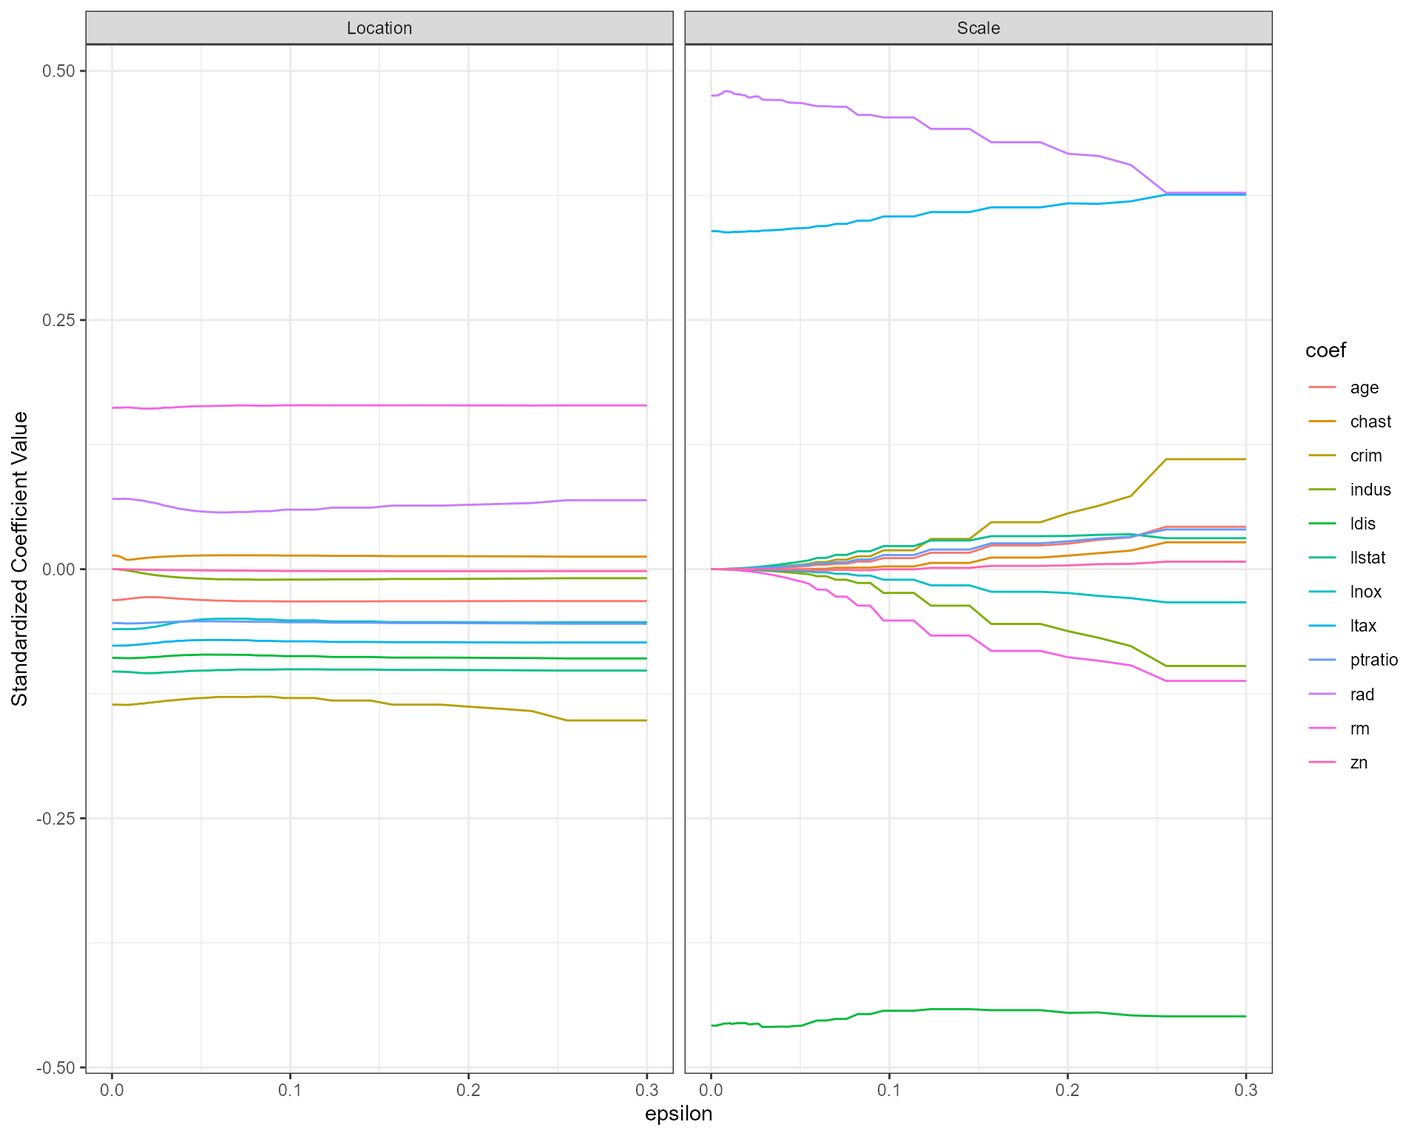
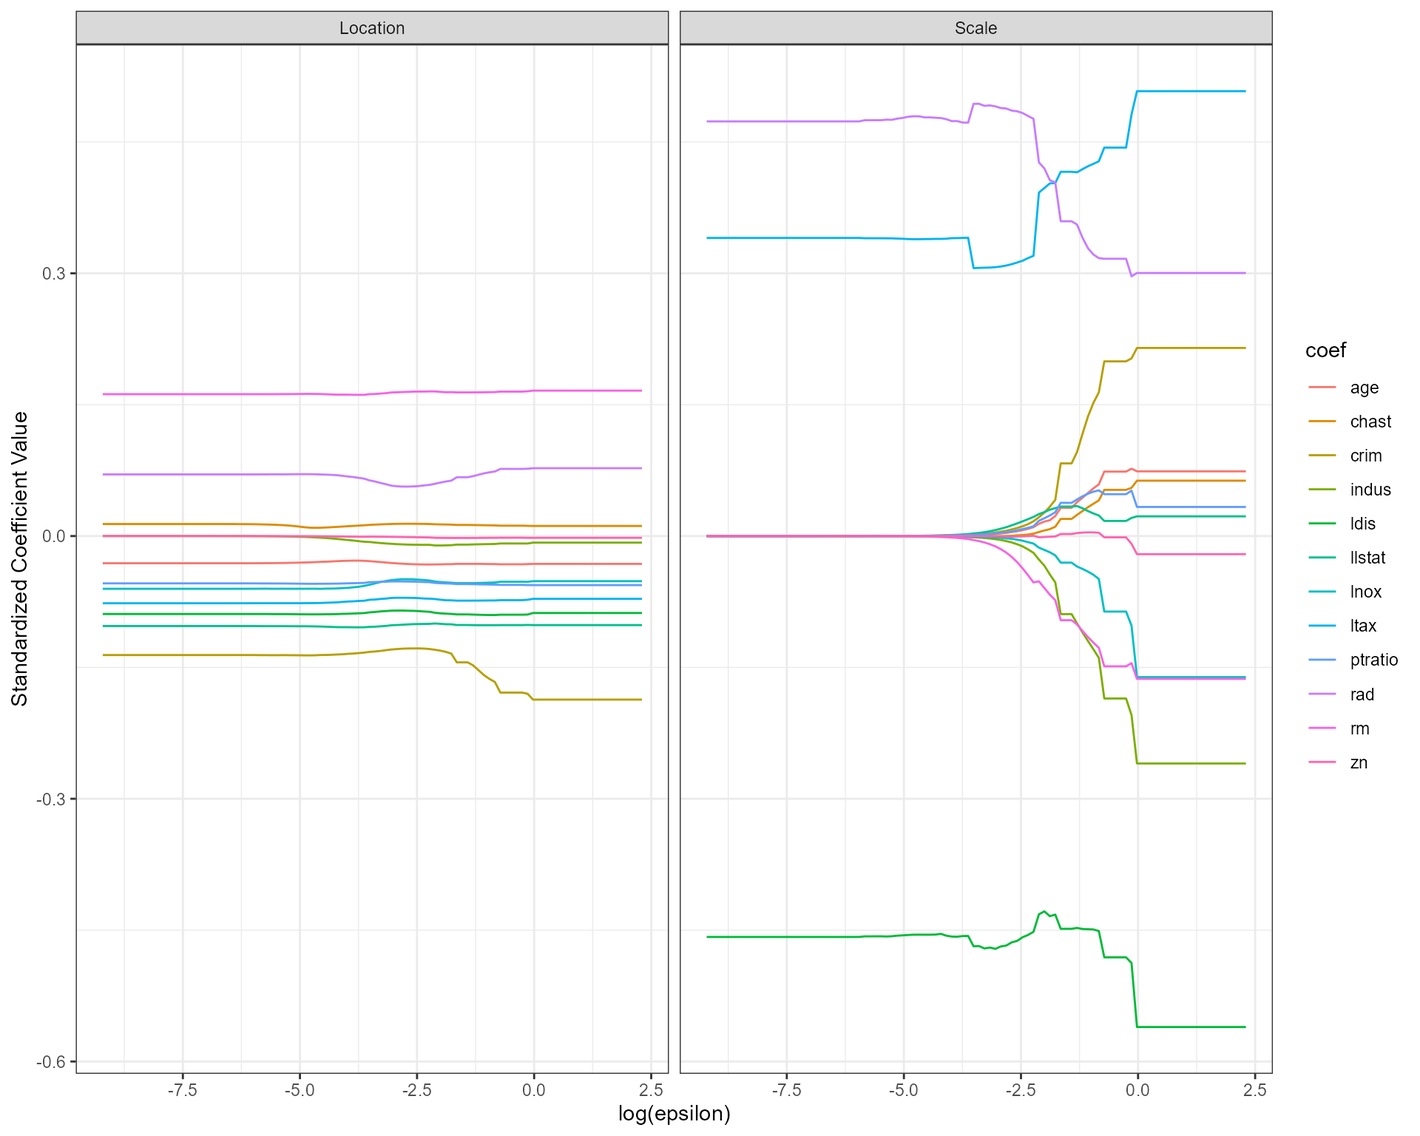
documentation and site

diff --git a/docs/index.html b/docs/index.html
@@ -5,9 +5,16 @@
 <meta charset="utf-8">
 <meta http-equiv="X-UA-Compatible" content="IE=edge">
 <meta name="viewport" content="width=device-width, initial-scale=1, shrink-to-fit=no">
-<meta name="description" content="Implementation of the SIC epsilon-telescope method, either
-    using single or multi-parameter regression. This package contains the data
-    analyses from O'Neill and Burke (2021). &quot;Variable Selection Using a Smooth Information Criterion for Multi-Parameter Regression Models&quot;. &lt;arXiv:2110.02643&gt;.">
+<meta name="description" content='Implementation of the SIC epsilon-telescope method, either
+    using single or multi-parameter regression. IncludesIncludes classical regression
+    with normally distributed errors and robust regression, where the errors are from
+    the Laplace distribution. The "smooth generalized normal distribution" is used,
+    where the estimation of an additional shape parameter allows the user to move
+    smoothly between both types of regression. See ONeill and Burke (2022)
+    "Robust Distributional Regression with Automatic Variable Selection" for more details.
+    &lt;arXiv:2212.07317&gt;. This package also contains the data analyses from ONeill and
+    Burke (2021). "Variable Selection Using a Smooth Information Criterion for
+    Multi-Parameter Regression Models". &lt;arXiv:2110.02643&gt;.'>
 <title>Variable Selection Using a Smooth Information Criterion • smoothic</title>
 <!-- favicons --><link rel="icon" type="image/png" sizes="16x16" href="favicon-16x16.png">
 <link rel="icon" type="image/png" sizes="32x32" href="favicon-32x32.png">
@@ -20,9 +27,16 @@
 <script src="deps/bootstrap-5.1.3/bootstrap.bundle.min.js"></script><!-- Font Awesome icons --><link rel="stylesheet" href="https://cdnjs.cloudflare.com/ajax/libs/font-awesome/5.12.1/css/all.min.css" integrity="sha256-mmgLkCYLUQbXn0B1SRqzHar6dCnv9oZFPEC1g1cwlkk=" crossorigin="anonymous">
 <link rel="stylesheet" href="https://cdnjs.cloudflare.com/ajax/libs/font-awesome/5.12.1/css/v4-shims.min.css" integrity="sha256-wZjR52fzng1pJHwx4aV2AO3yyTOXrcDW7jBpJtTwVxw=" crossorigin="anonymous">
 <!-- bootstrap-toc --><script src="https://cdn.rawgit.com/afeld/bootstrap-toc/v1.0.1/dist/bootstrap-toc.min.js"></script><!-- headroom.js --><script src="https://cdnjs.cloudflare.com/ajax/libs/headroom/0.11.0/headroom.min.js" integrity="sha256-AsUX4SJE1+yuDu5+mAVzJbuYNPHj/WroHuZ8Ir/CkE0=" crossorigin="anonymous"></script><script src="https://cdnjs.cloudflare.com/ajax/libs/headroom/0.11.0/jQuery.headroom.min.js" integrity="sha256-ZX/yNShbjqsohH1k95liqY9Gd8uOiE1S4vZc+9KQ1K4=" crossorigin="anonymous"></script><!-- clipboard.js --><script src="https://cdnjs.cloudflare.com/ajax/libs/clipboard.js/2.0.6/clipboard.min.js" integrity="sha256-inc5kl9MA1hkeYUt+EC3BhlIgyp/2jDIyBLS6k3UxPI=" crossorigin="anonymous"></script><!-- search --><script src="https://cdnjs.cloudflare.com/ajax/libs/fuse.js/6.4.6/fuse.js" integrity="sha512-zv6Ywkjyktsohkbp9bb45V6tEMoWhzFzXis+LrMehmJZZSys19Yxf1dopHx7WzIKxr5tK2dVcYmaCk2uqdjF4A==" crossorigin="anonymous"></script><script src="https://cdnjs.cloudflare.com/ajax/libs/autocomplete.js/0.38.0/autocomplete.jquery.min.js" integrity="sha512-GU9ayf+66Xx2TmpxqJpliWbT5PiGYxpaG8rfnBEk1LL8l1KGkRShhngwdXK1UgqhAzWpZHSiYPc09/NwDQIGyg==" crossorigin="anonymous"></script><script src="https://cdnjs.cloudflare.com/ajax/libs/mark.js/8.11.1/mark.min.js" integrity="sha512-5CYOlHXGh6QpOFA/TeTylKLWfB3ftPsde7AnmhuitiTX4K5SqCLBeKro6sPS8ilsz1Q4NRx3v8Ko2IBiszzdww==" crossorigin="anonymous"></script><!-- pkgdown --><script src="pkgdown.js"></script><meta property="og:title" content="Variable Selection Using a Smooth Information Criterion">
-<meta property="og:description" content="Implementation of the SIC epsilon-telescope method, either
-    using single or multi-parameter regression. This package contains the data
-    analyses from O'Neill and Burke (2021). &quot;Variable Selection Using a Smooth Information Criterion for Multi-Parameter Regression Models&quot;. &lt;arXiv:2110.02643&gt;.">
+<meta property="og:description" content='Implementation of the SIC epsilon-telescope method, either
+    using single or multi-parameter regression. IncludesIncludes classical regression
+    with normally distributed errors and robust regression, where the errors are from
+    the Laplace distribution. The "smooth generalized normal distribution" is used,
+    where the estimation of an additional shape parameter allows the user to move
+    smoothly between both types of regression. See ONeill and Burke (2022)
+    "Robust Distributional Regression with Automatic Variable Selection" for more details.
+    &lt;arXiv:2212.07317&gt;. This package also contains the data analyses from ONeill and
+    Burke (2021). "Variable Selection Using a Smooth Information Criterion for
+    Multi-Parameter Regression Models". &lt;arXiv:2110.02643&gt;.'>
 <meta property="og:image" content="https://meadhbh-oneill.github.io/smoothic/logo.png">
 <!-- mathjax --><script src="https://cdnjs.cloudflare.com/ajax/libs/mathjax/2.7.5/MathJax.js" integrity="sha256-nvJJv9wWKEm88qvoQl9ekL2J+k/RWIsaSScxxlsrv8k=" crossorigin="anonymous"></script><script src="https://cdnjs.cloudflare.com/ajax/libs/mathjax/2.7.5/config/TeX-AMS-MML_HTMLorMML.js" integrity="sha256-84DKXVJXs0/F8OTMzX4UR909+jtl4G7SPypPavF+GfA=" crossorigin="anonymous"></script><!--[if lt IE 9]>
 <script src="https://oss.maxcdn.com/html5shiv/3.7.3/html5shiv.min.js"></script>
@@ -85,7 +99,7 @@
 <!-- badges: start -->
 
 <p>For more information, check out the <code>smoothic</code> <a href="https://meadhbh-oneill.github.io/smoothic/">website</a>.</p>
-<p>Implementation of the SIC epsilon-telescope method, either using single or multi-parameter regression. This package contains the data analyses from O’Neill and Burke (2021). “Variable Selection Using a Smooth Information Criterion for Multi-Parameter Regression Models”. The preprint of the paper is available on <a href="https://arxiv.org/abs/2110.02643" class="external-link">arXiv</a>. Includes classical regression with normally distributed errors and robust regression, where the errors are from the Laplace distribution. The “smooth generalized normal distribution” is used, where the estimation of an additional shape parameter allows the user to move smoothly between both types of regression. See O’Neill and Burke (2022) “Robust Distributional Regression with Automatic Variable Selection” for more details on <a href="insert%20link%20here">arXiv</a>.</p>
+<p>Implementation of the SIC epsilon-telescope method, either using single or multi-parameter regression. This package contains the data analyses from O’Neill and Burke (2021). “Variable Selection Using a Smooth Information Criterion for Multi-Parameter Regression Models”. The preprint of the paper is available on <a href="https://arxiv.org/abs/2110.02643" class="external-link">arXiv</a>. Includes classical regression with normally distributed errors and robust regression, where the errors are from the Laplace distribution. The “smooth generalized normal distribution” is used, where the estimation of an additional shape parameter allows the user to move smoothly between both types of regression. See O’Neill and Burke (2022) “Robust Distributional Regression with Automatic Variable Selection” for more details on <a href="https://arxiv.org/abs/2212.07317" class="external-link">arXiv</a>.</p>
 <div class="section level2">
 <h2 id="installation">Installation<a class="anchor" aria-label="anchor" href="#installation"></a>
 </h2>

diff --git a/docs/articles/sgnd-boston.html b/docs/articles/sgnd-boston.html
@@ -133,40 +133,40 @@ criterion.</p>
 <span><span class="co">#&gt; </span></span>
 <span><span class="co">#&gt; Coefficients:</span></span>
 <span><span class="co">#&gt;                      Estimate         SEE        Z    Pvalue    </span></span>
-<span><span class="co">#&gt; intercept_0_beta   3.66846106  0.14300775  25.6522 &lt; 2.2e-16 ***</span></span>
-<span><span class="co">#&gt; crim_1_beta       -0.01580316  0.00238199  -6.6344 7.903e-09 ***</span></span>
+<span><span class="co">#&gt; intercept_0_beta   3.66771163  0.12703038  28.8727 &lt; 2.2e-16 ***</span></span>
+<span><span class="co">#&gt; crim_1_beta       -0.01579788  0.00237149  -6.6616 6.602e-09 ***</span></span>
 <span><span class="co">#&gt; zn_2_beta                   0           0        0         0    </span></span>
 <span><span class="co">#&gt; indus_3_beta                0           0        0         0    </span></span>
-<span><span class="co">#&gt; rm_4_beta          0.23056343  0.02153543  10.7062 &lt; 2.2e-16 ***</span></span>
-<span><span class="co">#&gt; age_5_beta        -0.00110288  0.00050773  -2.1722 0.0195869 *  </span></span>
-<span><span class="co">#&gt; rad_6_beta         0.00809799  0.00211141   3.8353 0.0001971 ***</span></span>
-<span><span class="co">#&gt; ptratio_7_beta    -0.02495948  0.00329515  -7.5746 1.482e-10 ***</span></span>
-<span><span class="co">#&gt; lnox_8_beta       -0.29896928  0.13694515  -2.1831 0.0190779 *  </span></span>
-<span><span class="co">#&gt; ldis_9_beta       -0.16497074  0.02977220  -5.5411 5.667e-07 ***</span></span>
-<span><span class="co">#&gt; ltax_10_beta      -0.19372179  0.01704358 -11.3663 &lt; 2.2e-16 ***</span></span>
-<span><span class="co">#&gt; llstat_11_beta    -0.17098692  0.02250256  -7.5986 1.335e-10 ***</span></span>
-<span><span class="co">#&gt; chast_12_beta      0.05397796  0.02081743   2.5929 0.0068622 ** </span></span>
-<span><span class="co">#&gt; intercept_0_alpha -8.30433637  1.98647604  -4.1804 6.579e-05 ***</span></span>
+<span><span class="co">#&gt; rm_4_beta          0.23056461  0.01931706  11.9358 &lt; 2.2e-16 ***</span></span>
+<span><span class="co">#&gt; age_5_beta        -0.00110316  0.00047342  -2.3302 0.0132312 *  </span></span>
+<span><span class="co">#&gt; rad_6_beta         0.00808459  0.00203408   3.9746 0.0001240 ***</span></span>
+<span><span class="co">#&gt; ptratio_7_beta    -0.02495132  0.00303522  -8.2206 7.538e-12 ***</span></span>
+<span><span class="co">#&gt; lnox_8_beta       -0.29890914  0.12657597  -2.3615 0.0122516 *  </span></span>
+<span><span class="co">#&gt; ldis_9_beta       -0.16497129  0.02799878  -5.8921 1.424e-07 ***</span></span>
+<span><span class="co">#&gt; ltax_10_beta      -0.19359305  0.01639456 -11.8084 &lt; 2.2e-16 ***</span></span>
+<span><span class="co">#&gt; llstat_11_beta    -0.17099398  0.02080743  -8.2179 7.642e-12 ***</span></span>
+<span><span class="co">#&gt; chast_12_beta      0.05409280  0.02080088   2.6005 0.0066516 ** </span></span>
+<span><span class="co">#&gt; intercept_0_alpha -8.31902812  1.97190507  -4.2188 5.642e-05 ***</span></span>
 <span><span class="co">#&gt; crim_1_alpha                0           0        0         0    </span></span>
 <span><span class="co">#&gt; zn_2_alpha                  0           0        0         0    </span></span>
 <span><span class="co">#&gt; indus_3_alpha               0           0        0         0    </span></span>
 <span><span class="co">#&gt; rm_4_alpha                  0           0        0         0    </span></span>
 <span><span class="co">#&gt; age_5_alpha                 0           0        0         0    </span></span>
-<span><span class="co">#&gt; rad_6_alpha        0.05458394  0.01528126   3.5720 0.0004410 ***</span></span>
+<span><span class="co">#&gt; rad_6_alpha        0.05437986  0.01524640   3.5667 0.0004391 ***</span></span>
 <span><span class="co">#&gt; ptratio_7_alpha             0           0        0         0    </span></span>
 <span><span class="co">#&gt; lnox_8_alpha                0           0        0         0    </span></span>
-<span><span class="co">#&gt; ldis_9_alpha      -0.84897004  0.18717010  -4.5358 2.023e-05 ***</span></span>
-<span><span class="co">#&gt; ltax_10_alpha      0.85582818  0.33280742   2.5715 0.0072450 ** </span></span>
+<span><span class="co">#&gt; ldis_9_alpha      -0.84849690  0.18351038  -4.6237 1.453e-05 ***</span></span>
+<span><span class="co">#&gt; ltax_10_alpha      0.85881887  0.33141037   2.5914 0.0068267 ** </span></span>
 <span><span class="co">#&gt; llstat_11_alpha             0           0        0         0    </span></span>
 <span><span class="co">#&gt; chast_12_alpha              0           0        0         0    </span></span>
-<span><span class="co">#&gt; nu_0               0.27682140  0.11205396   2.4704 0.0094034 ** </span></span>
+<span><span class="co">#&gt; nu_0               0.27822299  0.10931908   2.5451 0.0076889 ** </span></span>
 <span><span class="co">#&gt; ---</span></span>
 <span><span class="co">#&gt; Signif. codes:  0 '***' 0.001 '**' 0.01 '*' 0.05 '.' 0.1 ' ' 1</span></span>
 <span><span class="co">#&gt; Penalized Likelihood:</span></span>
-<span><span class="co">#&gt; [1] 228.3027</span></span>
+<span><span class="co">#&gt; [1] 228.3024</span></span>
 <span></span>
 <span><span class="va">fit</span><span class="op">$</span><span class="va">kappa</span> <span class="co"># shape estimate</span></span>
-<span><span class="co">#&gt; [1] 1.518931</span></span></code></pre></div>
+<span><span class="co">#&gt; [1] 1.520781</span></span></code></pre></div>
 <p>Plot the standardized coefficient values with respect to the
 epsilon-telescope.</p>
 <div class="sourceCode" id="cb4"><pre class="downlit sourceCode r">
@@ -200,7 +200,7 @@ epsilon-telescope.</p>
 <span><span class="co"># Plot</span></span>
 <span><span class="va">plot_df</span> <span class="op"><a href="https://magrittr.tidyverse.org/reference/pipe.html" class="external-link">%&gt;%</a></span></span>
 <span>  <span class="fu"><a href="https://ggplot2.tidyverse.org/reference/ggplot.html" class="external-link">ggplot</a></span><span class="op">(</span><span class="fu"><a href="https://ggplot2.tidyverse.org/reference/aes.html" class="external-link">aes</a></span><span class="op">(</span></span>
-<span>    x <span class="op">=</span> <span class="va">epsilon</span>,</span>
+<span>    x <span class="op">=</span> <span class="fu"><a href="https://rdrr.io/r/base/Log.html" class="external-link">log</a></span><span class="op">(</span><span class="va">epsilon</span><span class="op">)</span>, <span class="co"># log scale</span></span>
 <span>    y <span class="op">=</span> <span class="va">value</span>,</span>
 <span>    colour <span class="op">=</span> <span class="va">coef</span></span>
 <span>  <span class="op">)</span><span class="op">)</span> <span class="op">+</span></span>

diff --git a/docs/reference/summary.smoothic.html b/docs/reference/summary.smoothic.html
@@ -93,8 +93,8 @@ of a call to <code><a href="smoothic.html">smoothic</a></code>.</p></dd>
 <span class="r-in"><span><span class="va">results</span> <span class="op">&lt;-</span> <span class="fu"><a href="smoothic.html">smoothic</a></span><span class="op">(</span></span></span>
 <span class="r-in"><span>  formula <span class="op">=</span> <span class="va">y</span> <span class="op">~</span> <span class="va">.</span>,</span></span>
 <span class="r-in"><span>  data <span class="op">=</span> <span class="va">sniffer</span>,</span></span>
-<span class="r-in"><span>  model <span class="op">=</span> <span class="st">"mpr"</span>,</span></span>
-<span class="r-in"><span>  family <span class="op">=</span> <span class="st">"normal"</span></span></span>
+<span class="r-in"><span>  family <span class="op">=</span> <span class="st">"normal"</span>,</span></span>
+<span class="r-in"><span>  model <span class="op">=</span> <span class="st">"mpr"</span></span></span>
 <span class="r-in"><span><span class="op">)</span></span></span>
 <span class="r-in"><span><span class="fu"><a href="https://rdrr.io/r/base/summary.html" class="external-link">summary</a></span><span class="op">(</span><span class="va">results</span><span class="op">)</span></span></span>
 <span class="r-out co"><span class="r-pr">#&gt;</span> Call:</span>
@@ -107,20 +107,20 @@ of a call to <code><a href="smoothic.html">smoothic</a></code>.</p></dd>
 <span class="r-out co"><span class="r-pr">#&gt;</span> </span>
 <span class="r-out co"><span class="r-pr">#&gt;</span> Coefficients:</span>
 <span class="r-out co"><span class="r-pr">#&gt;</span>                    Estimate       SEE       Z    Pvalue    </span>
-<span class="r-out co"><span class="r-pr">#&gt;</span> intercept_0_beta   1.448103  0.852744  1.6982  0.087686 .  </span>
-<span class="r-out co"><span class="r-pr">#&gt;</span> tanktemp_1_beta           0         0       0         0    </span>
-<span class="r-out co"><span class="r-pr">#&gt;</span> gastemp_2_beta     0.182412  0.027991  6.5167 7.043e-11 ***</span>
-<span class="r-out co"><span class="r-pr">#&gt;</span> tankpres_3_beta   -2.943496  1.015345 -2.8990  0.003669 ** </span>
-<span class="r-out co"><span class="r-pr">#&gt;</span> gaspres_4_beta     7.390820  1.237556  5.9721 2.295e-09 ***</span>
-<span class="r-out co"><span class="r-pr">#&gt;</span> intercept_0_alpha -0.884624  0.639482 -1.3833  0.163228    </span>
+<span class="r-out co"><span class="r-pr">#&gt;</span> intercept_0_beta   0.758850  0.853924  0.8887   0.36670    </span>
+<span class="r-out co"><span class="r-pr">#&gt;</span> tanktemp_1_beta   -0.088858  0.027623 -3.2168   0.00127 ** </span>
+<span class="r-out co"><span class="r-pr">#&gt;</span> gastemp_2_beta     0.226261  0.025302  8.9423 &lt; 2.2e-16 ***</span>
+<span class="r-out co"><span class="r-pr">#&gt;</span> tankpres_3_beta           0         0       0         0    </span>
+<span class="r-out co"><span class="r-pr">#&gt;</span> gaspres_4_beta     5.190518  0.510752 10.1625 &lt; 2.2e-16 ***</span>
+<span class="r-out co"><span class="r-pr">#&gt;</span> intercept_0_alpha -1.343862  0.643686 -2.0878   0.03608 *  </span>
 <span class="r-out co"><span class="r-pr">#&gt;</span> tanktemp_1_alpha          0         0       0         0    </span>
-<span class="r-out co"><span class="r-pr">#&gt;</span> gastemp_2_alpha    0.048734  0.011094  4.3927 1.097e-05 ***</span>
+<span class="r-out co"><span class="r-pr">#&gt;</span> gastemp_2_alpha    0.056737  0.011170  5.0792 3.714e-07 ***</span>
 <span class="r-out co"><span class="r-pr">#&gt;</span> tankpres_3_alpha          0         0       0         0    </span>
 <span class="r-out co"><span class="r-pr">#&gt;</span> gaspres_4_alpha           0         0       0         0    </span>
 <span class="r-out co"><span class="r-pr">#&gt;</span> ---</span>
 <span class="r-out co"><span class="r-pr">#&gt;</span> Signif. codes:  0 ‘***’ 0.001 ‘**’ 0.01 ‘*’ 0.05 ‘.’ 0.1 ‘ ’ 1</span>
 <span class="r-out co"><span class="r-pr">#&gt;</span> Penalized Likelihood:</span>
-<span class="r-out co"><span class="r-pr">#&gt;</span> [1] -308.6679</span>
+<span class="r-out co"><span class="r-pr">#&gt;</span> [1] -308.2184</span>
 </code></pre></div>
     </div>
   </main><aside class="col-md-3"><nav id="toc"><h2>On this page</h2>

diff --git a/docs/reference/smoothic.html b/docs/reference/smoothic.html
@@ -75,7 +75,7 @@ the final estimates are converted back to their original scale.</p>
 <span>  family <span class="op">=</span> <span class="st">"sgnd"</span>,</span>
 <span>  model <span class="op">=</span> <span class="st">"mpr"</span>,</span>
 <span>  lambda <span class="op">=</span> <span class="st">"log(n)"</span>,</span>
-<span>  epsilon_1 <span class="op">=</span> <span class="fl">0.3</span>,</span>
+<span>  epsilon_1 <span class="op">=</span> <span class="fl">10</span>,</span>
 <span>  epsilon_T <span class="op">=</span> <span class="fl">1e-04</span>,</span>
 <span>  steps_T <span class="op">=</span> <span class="fl">100</span>,</span>
 <span>  zero_tol <span class="op">=</span> <span class="fl">1e-05</span>,</span>
@@ -187,7 +187,7 @@ distribution in the robust regression setting.</p></dd>
     <p>O'Neill, M. and Burke, K. (2021) Variable Selection Using a Smooth
 Information Criterion for Multi-Parameter Regression Models. &lt;arXiv:2110.02643&gt;</p>
 <p>O'Neill, M. and Burke, K. (2022) Robust Distributional Regression with
-Automatic Variable Selection. &lt;soon to be on arXiv&gt;</p>
+Automatic Variable Selection. &lt;arXiv:2212.07317&gt;</p>
     </div>
     <div class="section level2">
     <h2 id="author">Author<a class="anchor" aria-label="anchor" href="#author"></a></h2>
@@ -215,20 +215,20 @@ Automatic Variable Selection. &lt;soon to be on arXiv&gt;</p>
 <span class="r-out co"><span class="r-pr">#&gt;</span> </span>
 <span class="r-out co"><span class="r-pr">#&gt;</span> Coefficients:</span>
 <span class="r-out co"><span class="r-pr">#&gt;</span>                    Estimate       SEE       Z    Pvalue    </span>
-<span class="r-out co"><span class="r-pr">#&gt;</span> intercept_0_beta   1.448103  0.852744  1.6982  0.087686 .  </span>
-<span class="r-out co"><span class="r-pr">#&gt;</span> tanktemp_1_beta           0         0       0         0    </span>
-<span class="r-out co"><span class="r-pr">#&gt;</span> gastemp_2_beta     0.182412  0.027991  6.5167 7.043e-11 ***</span>
-<span class="r-out co"><span class="r-pr">#&gt;</span> tankpres_3_beta   -2.943496  1.015345 -2.8990  0.003669 ** </span>
-<span class="r-out co"><span class="r-pr">#&gt;</span> gaspres_4_beta     7.390820  1.237556  5.9721 2.295e-09 ***</span>
-<span class="r-out co"><span class="r-pr">#&gt;</span> intercept_0_alpha -0.884624  0.639482 -1.3833  0.163228    </span>
+<span class="r-out co"><span class="r-pr">#&gt;</span> intercept_0_beta   0.758850  0.853924  0.8887   0.36670    </span>
+<span class="r-out co"><span class="r-pr">#&gt;</span> tanktemp_1_beta   -0.088858  0.027623 -3.2168   0.00127 ** </span>
+<span class="r-out co"><span class="r-pr">#&gt;</span> gastemp_2_beta     0.226261  0.025302  8.9423 &lt; 2.2e-16 ***</span>
+<span class="r-out co"><span class="r-pr">#&gt;</span> tankpres_3_beta           0         0       0         0    </span>
+<span class="r-out co"><span class="r-pr">#&gt;</span> gaspres_4_beta     5.190518  0.510752 10.1625 &lt; 2.2e-16 ***</span>
+<span class="r-out co"><span class="r-pr">#&gt;</span> intercept_0_alpha -1.343862  0.643686 -2.0878   0.03608 *  </span>
 <span class="r-out co"><span class="r-pr">#&gt;</span> tanktemp_1_alpha          0         0       0         0    </span>
-<span class="r-out co"><span class="r-pr">#&gt;</span> gastemp_2_alpha    0.048734  0.011094  4.3927 1.097e-05 ***</span>
+<span class="r-out co"><span class="r-pr">#&gt;</span> gastemp_2_alpha    0.056737  0.011170  5.0792 3.714e-07 ***</span>
 <span class="r-out co"><span class="r-pr">#&gt;</span> tankpres_3_alpha          0         0       0         0    </span>
 <span class="r-out co"><span class="r-pr">#&gt;</span> gaspres_4_alpha           0         0       0         0    </span>
 <span class="r-out co"><span class="r-pr">#&gt;</span> ---</span>
 <span class="r-out co"><span class="r-pr">#&gt;</span> Signif. codes:  0 ‘***’ 0.001 ‘**’ 0.01 ‘*’ 0.05 ‘.’ 0.1 ‘ ’ 1</span>
 <span class="r-out co"><span class="r-pr">#&gt;</span> Penalized Likelihood:</span>
-<span class="r-out co"><span class="r-pr">#&gt;</span> [1] -308.6679</span>
+<span class="r-out co"><span class="r-pr">#&gt;</span> [1] -308.2184</span>
 </code></pre></div>
     </div>
   </main><aside class="col-md-3"><nav id="toc"><h2>On this page</h2>

diff --git a/docs/news/index.html b/docs/news/index.html
@@ -56,7 +56,7 @@
 <li><p>addition of the “smooth generalized normal distribution”, where an additional shape parameter is estimated relating to the kurtosis of the error distribution (shape parameter can also be fixed at a user-supplied value)</p></li>
 <li><p>new option to use <code><a href="https://rdrr.io/r/stats/nlm.html" class="external-link">nlm()</a></code> for optimization (<code>optimizer = "nlm"</code>) or to use the manually coded Newton-Raphson method (<code>optimizer = "manual"</code>)</p></li>
 <li><p>addition of the Laplace distribution, which corresponds to robust regression where the errors are heavy-tailed</p></li>
-<li><p>new dataset <code>bostonhouseprice2</code>, which is a corrected version of the orginial <code>bostonhouseprice</code> data</p></li>
+<li><p>new dataset <code>bostonhouseprice2</code>, which is a corrected version of the original <code>bostonhouseprice</code> data</p></li>
 <li><p>new dataset <code>diabetes</code></p></li>
 </ul></div>
     <div class="section level2">
